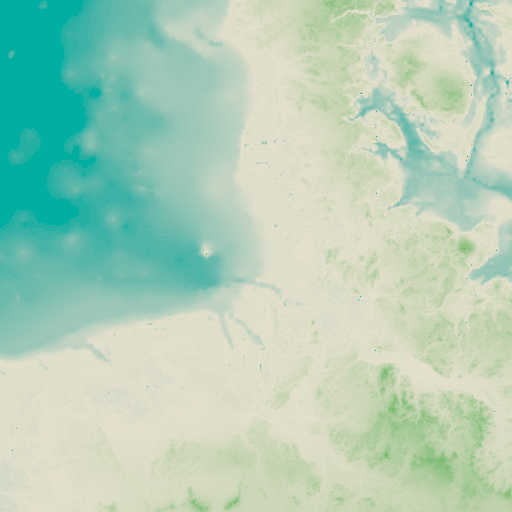
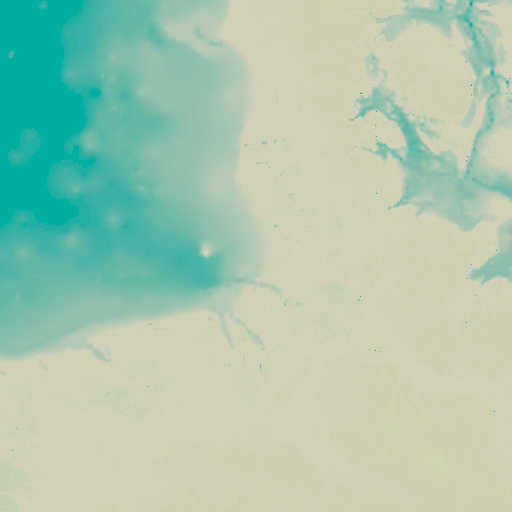
Improved color scheme

diff --git a/src/color_schemes.py b/src/color_schemes.py
@@ -13,16 +13,16 @@ moritz_mix = ColorSchema(
     colors = np.array([
         [0, 0, 81],         # Dark Blue
         [0, 174, 162],      # Light Blue
-        [222, 218, 200],    # Grey
+        [211, 210, 185],    # Grey
         [199, 202, 170],    # Darker Green
-        [210, 214, 170],    # Light Green
-        [222, 221, 175],    # Pale Spring Bud (Yellow)
-        [220, 199, 149],    # Wheat
+        [215, 227, 166],    # Light Green
+        [238, 237, 176],    # Pale Spring Bud (Yellow)
+        [238, 210, 142],    # Gold
         [208, 178, 140],    # Tan
         [218, 179, 168],    # Silver Pink
-        [190, 199, 192],    # Grey
+        [207, 215, 209],    # Grey
         [245, 245, 245],    # White   
-        [212, 235, 235],    # Ice Blue
+        [198, 231, 247],    # Ice Blue
     ]),
     stops = np.array([ 
         # Stop indicates when this color is reached completely. 
@@ -32,51 +32,15 @@ moritz_mix = ColorSchema(
         -8000,  # Dark Blue
         -40,    # Light Blue
         0,      # Grey
-        150,    # Darker Green
-        300,    # Light Green
+        50,    # Darker Green
+        350,    # Light Green
         500,    # Pale Spring Bud (Yellow)
-        1050,   # Wheat
+        1050,   # Gold
         1800,   # Tan
         2300,   # Silver Pink
         3100,   # Grey
-        4100,   # White
-        6600    # Ice Blue
-     ])
-)
-
-moritz_mix_bright = ColorSchema(
-    colors = np.array([
-        [0, 0, 81],         # Dark Blue
-        [0, 174, 162],      # Light Blue
-        [228, 224, 205],    # Grey
-        [107, 185, 100],    # Darker Green
-        [158, 200, 62],     # Light Green
-        [250, 219, 84],     # Pale Spring Bud (Yellow)
-        [255, 172, 64],     # Wheat
-        [216, 108, 49],     # Tan
-        [235, 134, 111],    # Silver Pink
-        [190, 199, 192],    # Grey
-        [245, 245, 245],    # White   
-        [127, 213, 247],    # Ice Blue
-    ]),
-    stops = np.array([ 
-        # Stops blend from current to next value
-        # Color next top stop indicates which color is reached at this height
-        # For example, white transforms to blue between 4100 and 6600
-
-        -8000,  # Dark Blue
-        -40,    # Light Blue
-        0,      # Grey
-        150,    # Darker Green
-        400,    # Light Green
-        500,    # Pale Spring Bud (Yellow)
-        1050,   # Wheat
-        1800,   # Tan
-        2300,   # Silver Pink
-        3000,   # Grey
-        3100,   # White
-        4100,   # Ice Blue
-        6600    
+        3800,   # White
+        6000    # Ice Blue
      ])
 )
 
